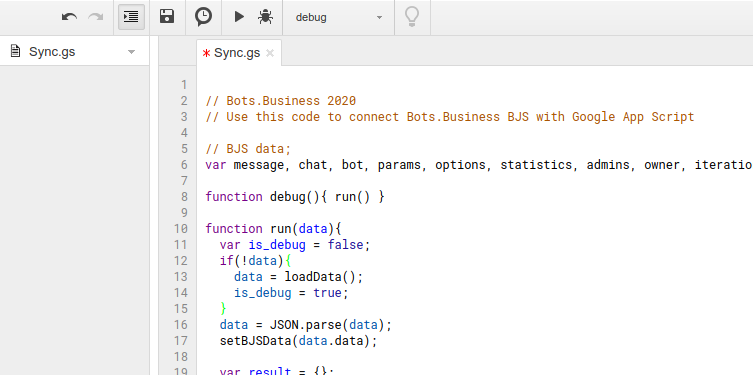
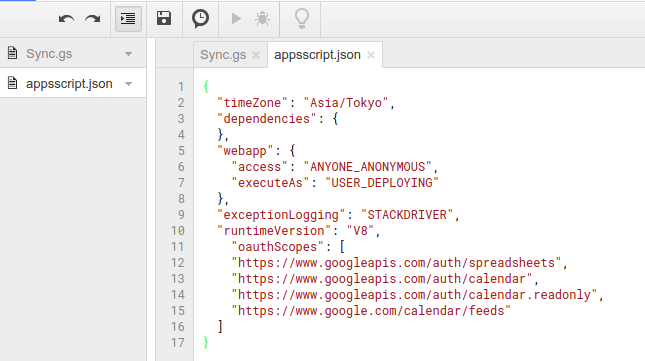
GitBook: [master] one page and 6 assets modified

diff --git a/libs/googleapp.md b/libs/googleapp.md
@@ -2,17 +2,17 @@
 
 Use this lib to connect BJS with [Google App Script](https://developers.google.com/apps-script)
 
-![](../.gitbook/assets/image%20%2876%29.png)
+![](../.gitbook/assets/image%20%2878%29.png)
 
 ## Getting started
 
 1. Go to [https://script.google.com](https://script.google.com) and create new project by button:
 
-![](../.gitbook/assets/image%20%2875%29.png)
+![](../.gitbook/assets/image%20%2877%29.png)
 
 2. Paste the script from [above](https://gist.github.com/bots-business/0635dfc5ee3b28328e93239a607d680c) into the script code editor and hit _Save._
 
-![](../.gitbook/assets/image%20%2874%29.png)
+![](../.gitbook/assets/image%20%2876%29.png)
 
 **3.**  From the _Publish_ menu, select _Deploy as web app…_  
   
@@ -35,7 +35,7 @@ Libs.GoogleApp.setUrl("https://script.google.com/macros/*******");
 
 ## Using
 
-### Use any Google App script in BJS now
+Use any Google App script in BJS now
 
 ```javascript
 function GACode(){
@@ -92,7 +92,7 @@ command `onRun`
 Bot.sendMessage(inspect(options))
 ```
 
-### Permissions
+## Permissions
 
 {% hint style="warning" %}
 You need set permissions for Google App Script
@@ -104,17 +104,67 @@ Run `Libs.GoogleAppLib.run`in first time. You can have like such error:
 >
 > "The script does not have permission to perform that action. Required permissions: \([https://www.googleapis.com/auth/calendar](https://www.googleapis.com/auth/calendar) \|\| [https://www.googleapis.com/auth/calendar.readonly](https://www.googleapis.com/auth/calendar.readonly) \|\| [https://www.google.com/calendar/feeds](https://www.google.com/calendar/feeds)\)"
 
-If you have such error:
+If you have such error you need set access rigths.
 
-* go to Google App Script Editor \(See step 2\)
+### Granting access rights
+
+* go to Google App Script Editor \(See [step 2](googleapp.md#getting-started)\)
 * select "Debug" function on Tab
 * press "Run" button:
 
-![](../.gitbook/assets/image%20%2873%29.png)
+![](../.gitbook/assets/image%20%2875%29.png)
 
-After this grant all needed permissions for your script
+After this [grant all](https://developers.google.com/apps-script/guides/services/authorization#granting_access_rights) needed permissions for your script:
+
+![](https://developers.google.com/apps-script/images/new-auth-1.png)![](https://developers.google.com/apps-script/images/new-auth-2.png)
+
+if it is not works - set that scopes via manifest file
+
+### Granting access rights via manifest file
+
+Full help available [here](https://developers.google.com/apps-script/concepts/scopes#setting_explicit_scopes). From that help:
+
+You can explicitly set the scopes your script project uses by editing its [manifest](https://developers.google.com/apps-script/concepts/manifests) file. The manifest field `oauthScopes` is an array of all scopes used by the project. To set your project's scopes, do the following:
+
+1. Open the [script project](googleapp.md#getting-started) \(script from step 2\) in the Apps Script editor.
+2. In the menu, select **File &gt; Project properties**.
+3. Select the **Scopes** tab.
+4. Review the scopes your script currently requires and determine what changes need to be made. Click **Cancel** when finished.
+5. If the manifest file `appsscript.json` isn't visible in the left nav bar, select the **View &gt; Show manifest file** menu item.
+6. Select the `appsscript.json` file in the left nav to open it.
+7. Locate the top-level field labeled `oauthScopes`. If it is not present, you can add it.
+8. The `oauthScopes` field specifies an array of strings. To set the scopes your project uses, replace the contents of this array with the scopes you want it to use. For example:
+
+   ```text
+   {
+     ...
+     "oauthScopes": [
+       "https://www.googleapis.com/auth/spreadsheets.readonly",
+       "https://www.googleapis.com/auth/userinfo.email"
+     ],
+     ...
+   }
+   ```
+
+9. Save the manifest file using **Ctrl+S** or the Save file icon in the menu bar.
+
+![](../.gitbook/assets/image%20%2874%29.png)
+
+10. Run script - see [this](googleapp.md#granting-access-rights)
+
+
 
 {% hint style="success" %}
 You can use "debug" function anytime for debugging
 {% endhint %}
+
+## Links
+
+[Google App script](https://developers.google.com/apps-script) home page
+
+Google App Script [examples](https://github.com/gsuitedevs/apps-script-samples) - good examples for inspiration
+
+Stack Overflow [answers](http://stackoverflow.com/questions/tagged/google-apps-script) - ask your questions on SO
+
+[Videos](https://developers.google.com/apps-script/guides/videos) -  Check out the Apps Script videos on YouTube
 
